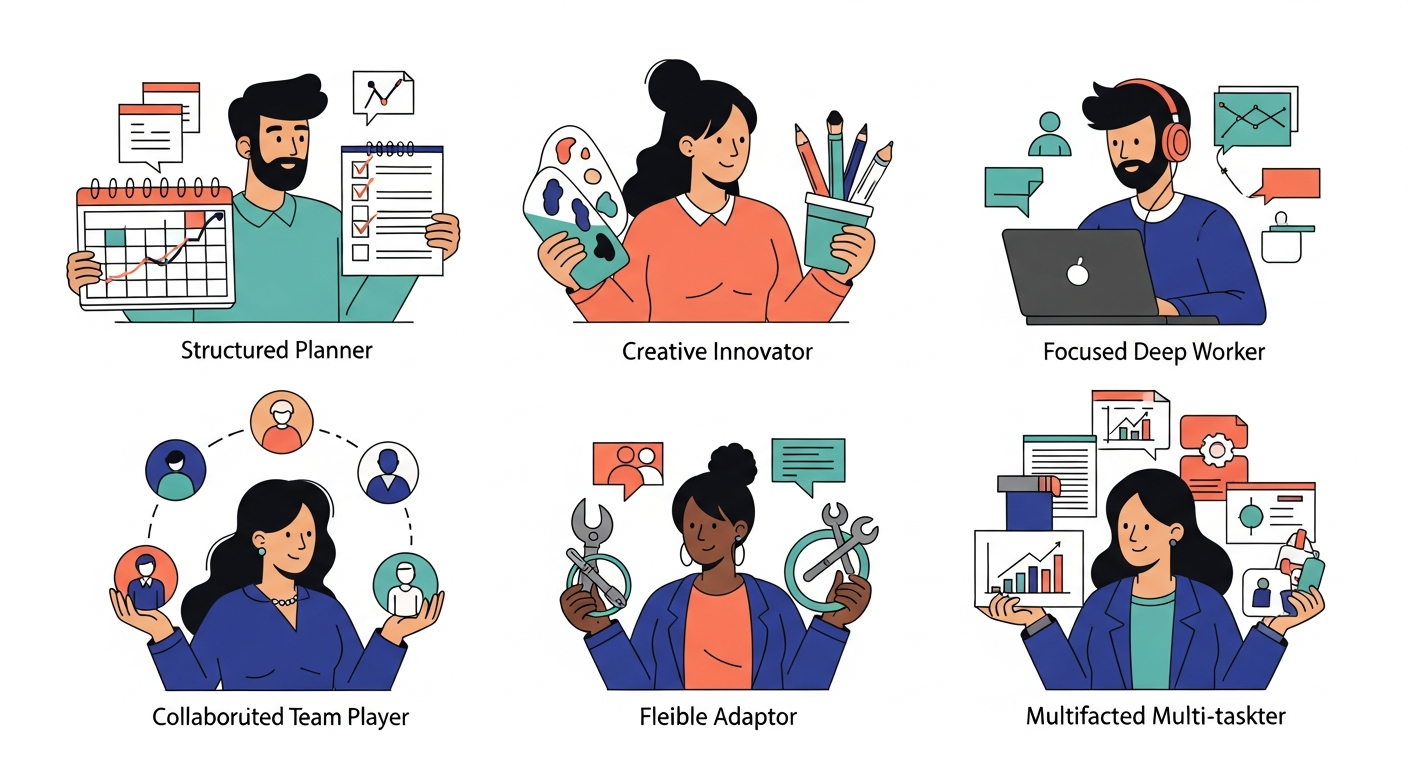
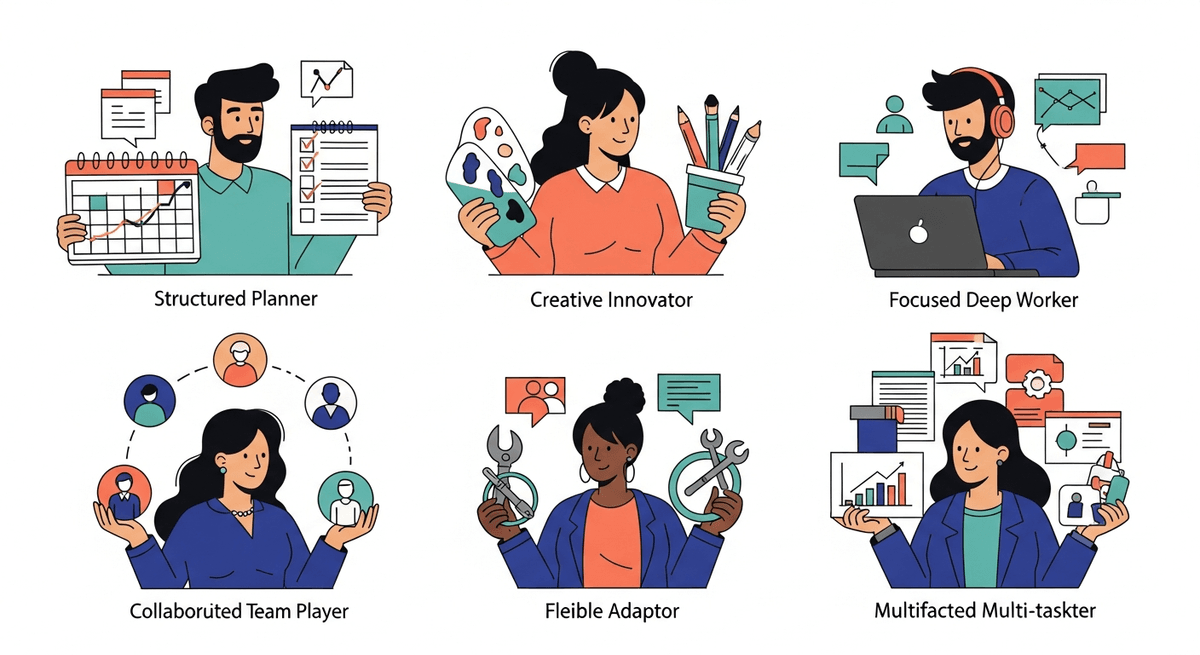
Add a refund policy page and optimize application images
Introduces a new `refund-policy` page, links it from various sections (home, pricing, results), and adds an image optimization script (`scripts/optimize-images.js`) to compress images in the `attached_assets` directory using the `sharp` library.

Replit-Commit-Author: Agent
Replit-Commit-Session-Id: 1e71f5b4-2b4a-4f63-860e-5c5449bd192b
Replit-Commit-Checkpoint-Type: intermediate_checkpoint
Replit-Commit-Event-Id: cae0bfb9-2702-4143-a953-3de11e528742
Replit-Commit-Screenshot-Url: https://storage.googleapis.com/screenshot-production-us-central1/1174e4af-31d2-441c-9dfc-5597eb8d3b3f/1e71f5b4-2b4a-4f63-860e-5c5449bd192b/vWKhVP3

diff --git a/client/src/pages/refund-policy.tsx b/client/src/pages/refund-policy.tsx
@@ -1,0 +1,201 @@
+import { Header } from "@/components/header";
+import { SEOHead } from "@/components/seo-head";
+import { Card, CardContent } from "@/components/ui/card";
+import { Link } from "wouter";
+import { Mail, Clock, CheckCircle2, AlertCircle, ArrowLeft } from "lucide-react";
+import { Button } from "@/components/ui/button";
+
+export default function RefundPolicy() {
+  return (
+    <div className="min-h-screen bg-gradient-to-br from-neutral-50 to-indigo-50 dark:from-neutral-900 dark:to-indigo-950">
+      <SEOHead
+        title="Refund Policy - Prolific Personalities"
+        description="Our refund policy for premium playbook purchases. We offer a 30-day satisfaction guarantee on all digital products."
+        canonicalUrl={`${window.location.origin}/refund-policy`}
+      />
+      <Header />
+
+      <section className="py-16">
+        <div className="max-w-3xl mx-auto px-4 sm:px-6 lg:px-8">
+          <Link href="/">
+            <Button variant="ghost" className="mb-6" data-testid="button-back-home">
+              <ArrowLeft className="w-4 h-4 mr-2" />
+              Back to Home
+            </Button>
+          </Link>
+
+          <h1 className="text-4xl font-bold text-neutral-900 dark:text-white mb-4">
+            Refund Policy
+          </h1>
+          <p className="text-lg text-neutral-600 dark:text-neutral-400 mb-8">
+            Last updated: December 2024
+          </p>
+
+          <div className="space-y-8">
+            <Card>
+              <CardContent className="p-6">
+                <div className="flex items-start gap-4">
+                  <div className="w-12 h-12 rounded-full bg-green-100 dark:bg-green-900 flex items-center justify-center flex-shrink-0">
+                    <CheckCircle2 className="w-6 h-6 text-green-600 dark:text-green-400" />
+                  </div>
+                  <div>
+                    <h2 className="text-xl font-bold text-neutral-900 dark:text-white mb-2">
+                      30-Day Satisfaction Guarantee
+                    </h2>
+                    <p className="text-neutral-600 dark:text-neutral-400">
+                      We stand behind our premium playbooks. If you're not completely satisfied with your purchase, 
+                      you can request a full refund within 30 days of your purchase date—no questions asked.
+                    </p>
+                  </div>
+                </div>
+              </CardContent>
+            </Card>
+
+            <Card>
+              <CardContent className="p-6 space-y-6">
+                <h2 className="text-xl font-bold text-neutral-900 dark:text-white">
+                  What's Covered
+                </h2>
+                
+                <div className="space-y-4">
+                  <div className="flex items-start gap-3">
+                    <CheckCircle2 className="w-5 h-5 text-green-600 mt-0.5 flex-shrink-0" />
+                    <div>
+                      <h3 className="font-semibold text-neutral-800 dark:text-neutral-200">Premium Archetype Playbooks ($27)</h3>
+                      <p className="text-neutral-600 dark:text-neutral-400 text-sm">
+                        Full refund available within 30 days of purchase. This includes both the PDF download and 
+                        web-based interactive playbook access.
+                      </p>
+                    </div>
+                  </div>
+                </div>
+              </CardContent>
+            </Card>
+
+            <Card>
+              <CardContent className="p-6 space-y-6">
+                <h2 className="text-xl font-bold text-neutral-900 dark:text-white">
+                  How to Request a Refund
+                </h2>
+                
+                <div className="space-y-4">
+                  <div className="flex items-start gap-3">
+                    <div className="w-8 h-8 rounded-full bg-indigo-100 dark:bg-indigo-900 flex items-center justify-center flex-shrink-0 text-sm font-bold text-indigo-600 dark:text-indigo-400">
+                      1
+                    </div>
+                    <div>
+                      <h3 className="font-semibold text-neutral-800 dark:text-neutral-200">Send an Email</h3>
+                      <p className="text-neutral-600 dark:text-neutral-400 text-sm">
+                        Contact us at{" "}
+                        <a 
+                          href="mailto:support@prolificpersonalities.com?subject=Refund Request" 
+                          className="text-indigo-600 hover:underline"
+                          data-testid="link-refund-email"
+                        >
+                          support@prolificpersonalities.com
+                        </a>
+                        {" "}with the subject line "Refund Request".
+                      </p>
+                    </div>
+                  </div>
+
+                  <div className="flex items-start gap-3">
+                    <div className="w-8 h-8 rounded-full bg-indigo-100 dark:bg-indigo-900 flex items-center justify-center flex-shrink-0 text-sm font-bold text-indigo-600 dark:text-indigo-400">
+                      2
+                    </div>
+                    <div>
+                      <h3 className="font-semibold text-neutral-800 dark:text-neutral-200">Include Your Details</h3>
+                      <p className="text-neutral-600 dark:text-neutral-400 text-sm">
+                        Please include the email address used for purchase and, if available, your order confirmation number or Stripe receipt.
+                      </p>
+                    </div>
+                  </div>
+
+                  <div className="flex items-start gap-3">
+                    <div className="w-8 h-8 rounded-full bg-indigo-100 dark:bg-indigo-900 flex items-center justify-center flex-shrink-0 text-sm font-bold text-indigo-600 dark:text-indigo-400">
+                      3
+                    </div>
+                    <div>
+                      <h3 className="font-semibold text-neutral-800 dark:text-neutral-200">Receive Your Refund</h3>
+                      <p className="text-neutral-600 dark:text-neutral-400 text-sm">
+                        We'll process your refund within 3-5 business days. Funds will be returned to your original payment method.
+                      </p>
+                    </div>
+                  </div>
+                </div>
+              </CardContent>
+            </Card>
+
+            <Card>
+              <CardContent className="p-6 space-y-4">
+                <div className="flex items-start gap-4">
+                  <div className="w-12 h-12 rounded-full bg-amber-100 dark:bg-amber-900 flex items-center justify-center flex-shrink-0">
+                    <Clock className="w-6 h-6 text-amber-600 dark:text-amber-400" />
+                  </div>
+                  <div>
+                    <h2 className="text-xl font-bold text-neutral-900 dark:text-white mb-2">
+                      Processing Time
+                    </h2>
+                    <ul className="text-neutral-600 dark:text-neutral-400 space-y-2 text-sm">
+                      <li>• Refund requests are reviewed within 1-2 business days</li>
+                      <li>• Once approved, refunds are processed within 3-5 business days</li>
+                      <li>• Depending on your bank, it may take 5-10 additional business days to appear in your account</li>
+                    </ul>
+                  </div>
+                </div>
+              </CardContent>
+            </Card>
+
+            <Card>
+              <CardContent className="p-6 space-y-4">
+                <div className="flex items-start gap-4">
+                  <div className="w-12 h-12 rounded-full bg-blue-100 dark:bg-blue-900 flex items-center justify-center flex-shrink-0">
+                    <AlertCircle className="w-6 h-6 text-blue-600 dark:text-blue-400" />
+                  </div>
+                  <div>
+                    <h2 className="text-xl font-bold text-neutral-900 dark:text-white mb-2">
+                      Important Notes
+                    </h2>
+                    <ul className="text-neutral-600 dark:text-neutral-400 space-y-2 text-sm">
+                      <li>• Refunds requested after 30 days will be reviewed on a case-by-case basis</li>
+                      <li>• Upon refund, access to the interactive web playbook will be revoked</li>
+                      <li>• Downloaded PDF files are yours to keep, but continued use is not authorized after refund</li>
+                      <li>• Repeated refund requests may result in future purchase restrictions</li>
+                    </ul>
+                  </div>
+                </div>
+              </CardContent>
+            </Card>
+
+            <Card className="bg-gradient-to-r from-indigo-50 to-teal-50 dark:from-indigo-950 dark:to-teal-950 border-0">
+              <CardContent className="p-6">
+                <div className="flex items-start gap-4">
+                  <div className="w-12 h-12 rounded-full bg-white dark:bg-neutral-800 flex items-center justify-center flex-shrink-0">
+                    <Mail className="w-6 h-6 text-indigo-600 dark:text-indigo-400" />
+                  </div>
+                  <div>
+                    <h2 className="text-xl font-bold text-neutral-900 dark:text-white mb-2">
+                      Questions?
+                    </h2>
+                    <p className="text-neutral-600 dark:text-neutral-400 mb-4">
+                      If you have any questions about our refund policy or need assistance with a purchase, 
+                      we're here to help.
+                    </p>
+                    <a 
+                      href="mailto:support@prolificpersonalities.com"
+                      className="inline-flex items-center gap-2 text-indigo-600 dark:text-indigo-400 font-medium hover:underline"
+                      data-testid="link-contact-support"
+                    >
+                      <Mail className="w-4 h-4" />
+                      support@prolificpersonalities.com
+                    </a>
+                  </div>
+                </div>
+              </CardContent>
+            </Card>
+          </div>
+        </div>
+      </section>
+    </div>
+  );
+}

diff --git a/scripts/optimize-images.js b/scripts/optimize-images.js
@@ -1,0 +1,110 @@
+import sharp from 'sharp';
+import fs from 'fs';
+import path from 'path';
+
+const ASSETS_DIR = './attached_assets';
+const QUALITY = 80;
+const MAX_WIDTH = 1200;
+
+async function optimizeImage(inputPath) {
+  const ext = path.extname(inputPath).toLowerCase();
+  const baseName = path.basename(inputPath, ext);
+  const dir = path.dirname(inputPath);
+  
+  if (!['.png', '.jpg', '.jpeg'].includes(ext)) {
+    return;
+  }
+
+  try {
+    const stats = fs.statSync(inputPath);
+    const originalSize = stats.size;
+    
+    if (originalSize < 100 * 1024) {
+      console.log(`Skipping ${inputPath} (already small: ${(originalSize / 1024).toFixed(1)}KB)`);
+      return;
+    }
+
+    const image = sharp(inputPath);
+    const metadata = await image.metadata();
+    
+    let pipeline = image;
+    
+    if (metadata.width > MAX_WIDTH) {
+      pipeline = pipeline.resize(MAX_WIDTH, null, { 
+        withoutEnlargement: true,
+        fit: 'inside'
+      });
+    }
+
+    const outputPath = inputPath;
+    const tempPath = inputPath + '.tmp';
+
+    if (ext === '.png') {
+      await pipeline
+        .png({ 
+          quality: QUALITY,
+          compressionLevel: 9,
+          palette: true
+        })
+        .toFile(tempPath);
+    } else {
+      await pipeline
+        .jpeg({ 
+          quality: QUALITY,
+          mozjpeg: true
+        })
+        .toFile(tempPath);
+    }
+
+    const newStats = fs.statSync(tempPath);
+    const newSize = newStats.size;
+    const savings = ((originalSize - newSize) / originalSize * 100).toFixed(1);
+
+    if (newSize < originalSize) {
+      fs.unlinkSync(inputPath);
+      fs.renameSync(tempPath, outputPath);
+      console.log(`✅ ${path.basename(inputPath)}: ${(originalSize / 1024).toFixed(0)}KB → ${(newSize / 1024).toFixed(0)}KB (${savings}% saved)`);
+    } else {
+      fs.unlinkSync(tempPath);
+      console.log(`⏭ ${path.basename(inputPath)}: Already optimized`);
+    }
+  } catch (error) {
+    console.error(`❌ Error optimizing ${inputPath}:`, error.message);
+  }
+}
+
+async function findImages(dir) {
+  const images = [];
+  
+  function scanDir(currentDir) {
+    const files = fs.readdirSync(currentDir);
+    for (const file of files) {
+      const filePath = path.join(currentDir, file);
+      const stat = fs.statSync(filePath);
+      
+      if (stat.isDirectory()) {
+        scanDir(filePath);
+      } else if (/\.(png|jpg|jpeg)$/i.test(file)) {
+        images.push(filePath);
+      }
+    }
+  }
+  
+  scanDir(dir);
+  return images;
+}
+
+async function main() {
+  console.log('🖼  Starting image optimization...\n');
+  
+  const images = await findImages(ASSETS_DIR);
+  console.log(`Found ${images.length} images to process\n`);
+  
+  for (const imagePath of images) {
+    await optimizeImage(imagePath);
+  }
+  
+  console.log('\n✨ Image optimization complete!');
+}
+
+main().catch(console.error);

diff --git a/client/src/App.tsx b/client/src/App.tsx
@@ -24,6 +24,7 @@ import PaymentSuccess from "@/pages/payment-success";
 import PaymentCancelled from "@/pages/payment-cancelled";
 import PurchaseSuccess from "@/pages/purchase-success";
 import Playbook from "@/pages/playbook";
+import RefundPolicy from "@/pages/refund-policy";
 import DevTools from "@/pages/dev-tools";
 
 function Router() {
@@ -56,6 +57,7 @@ function Router() {
       <Route path="/founder" component={Founder} />
       <Route path="/blog/:slug" component={BlogPost} />
       <Route path="/blog" component={Blog} />
+      <Route path="/refund-policy" component={RefundPolicy} />
       <Route path="/results/:sessionId" component={Results} />
       <Route path="/results" component={Results} />
     </Switch>

diff --git a/client/src/pages/results.tsx b/client/src/pages/results.tsx
@@ -944,6 +944,12 @@ export default function Results() {
                 <p className="text-center text-neutral-500 text-sm mt-4">
                   One-time payment • Instant download • 100+ page personalized playbook
                 </p>
+                <p className="text-center text-neutral-400 text-xs mt-2">
+                  30-day satisfaction guarantee.{" "}
+                  <Link href="/refund-policy" className="text-indigo-600 hover:underline" data-testid="link-refund-policy">
+                    View refund policy
+                  </Link>
+                </p>
               </div>
             </CardContent>
           </Card>

diff --git a/client/src/pages/pricing.tsx b/client/src/pages/pricing.tsx
@@ -128,6 +128,13 @@ export default function Pricing() {
                 <p className="text-sm text-neutral-600 text-center mt-4">
                   Take the free assessment first, then upgrade for the full report
                 </p>
+
+                <p className="text-xs text-neutral-500 text-center mt-4">
+                  30-day satisfaction guarantee.{" "}
+                  <Link href="/refund-policy" className="text-primary hover:underline" data-testid="link-refund-policy">
+                    View refund policy
+                  </Link>
+                </p>
               </CardContent>
             </Card>
           </div>

diff --git a/client/src/pages/home.tsx b/client/src/pages/home.tsx
@@ -273,6 +273,7 @@ export default function Home() {
               <ul className="space-y-2 text-neutral-400">
                 <li><Link href="/about" className="hover:text-white transition-colors">About</Link></li>
                 <li><Link href="/faq" className="hover:text-white transition-colors">FAQ</Link></li>
+                <li><Link href="/refund-policy" className="hover:text-white transition-colors" data-testid="link-footer-refund">Refund Policy</Link></li>
               </ul>
             </div>
           </div>
